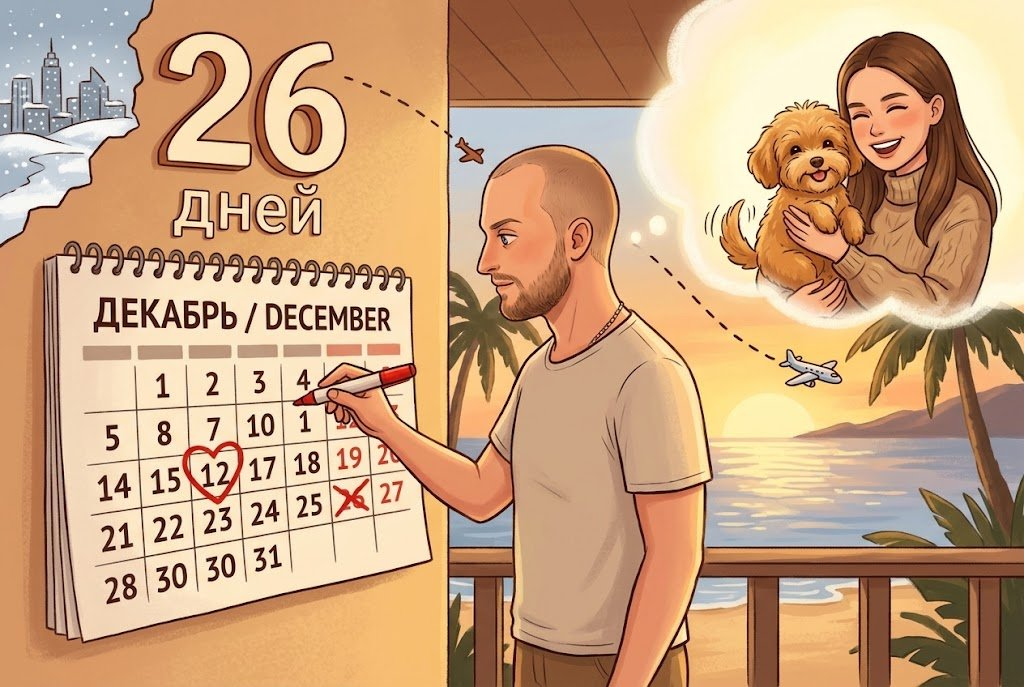
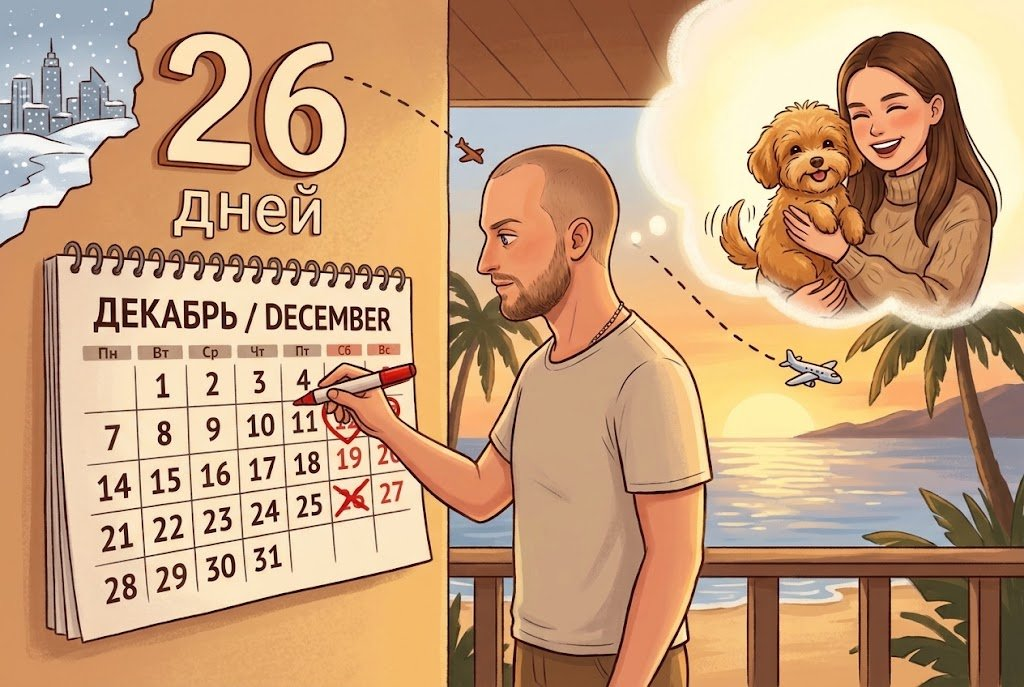
Открытка №33: исправленный календарь
Claude-Session: https://claude.ai/code/session_013rjPoG3Myfb3E1Fihanq9L

diff --git a/index.html b/index.html
@@ -169,7 +169,7 @@ footer{text-align:center;font-size:12px;color:var(--ink-soft)}
 
 <script>
 // ===== Настройки =====
-const PAGE_VER="1794812720";
+const PAGE_VER="1794812929";
 const TEST = location.hash==="#zhenya-test"; // тестовый режим
 const ARRIVAL = new Date("2026-12-12T12:00:00+07:00"); // дата приезда (время Пхукета)
 const START   = new Date("2026-10-15T06:00:00+08:00"); // день запуска странички
